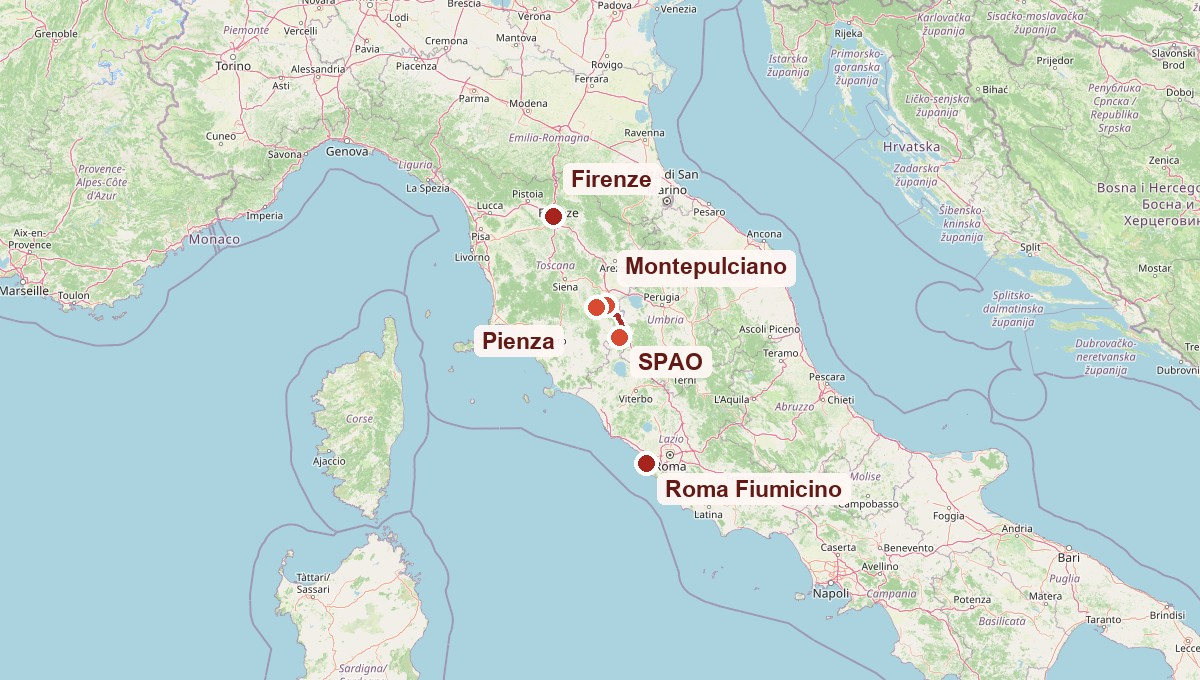
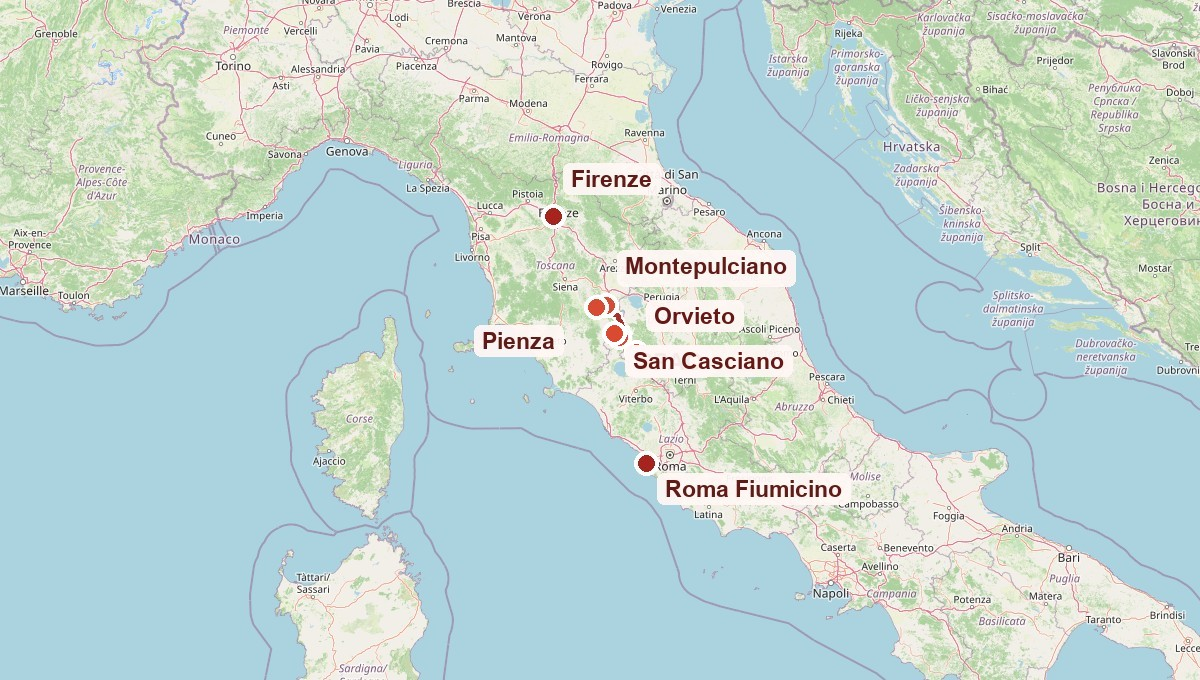
Add Orvieto and San Casciano tips

Changed region(s): [[0.4933, 0.4324, 0.6783, 0.5559]]

diff --git a/app/tips/page.tsx b/app/tips/page.tsx
@@ -39,6 +39,28 @@ export default function TipsPage() {
               <a className="text-link" href="https://www.pienzawelcome.it/en/" target="_blank" rel="noreferrer">Les mer</a>
             </div>
           </article>
+
+          <article className="explore-card cream">
+            <p className="kicker">Umbria</p>
+            <h2>Orvieto</h2>
+            <p className="explore-time">Ca. 35 km · omtrent 45 min fra SPAO</p>
+            <p>En skikkelig fin by å rusle rundt i, med små gater, hyggelige spisesteder og en ganske utrolig katedral midt i byen. Under Orvieto finnes det også et nettverk av gamle tunneler og rom som kan besøkes med guide.</p>
+            <div className="explore-actions">
+              <a className="outline-button" href="https://www.google.com/maps/dir/?api=1&origin=SPAO+Borgo+San+Pietro+Aquaeortus+Allerona&destination=Orvieto+Italy&travelmode=driving" target="_blank" rel="noreferrer">Åpne kjørerute</a>
+              <a className="text-link" href="https://www.umbriatourism.it/en/orvietano" target="_blank" rel="noreferrer">Les mer</a>
+            </div>
+          </article>
+
+          <article className="explore-card pink">
+            <p className="kicker">Toscana</p>
+            <h2>San Casciano dei Bagni</h2>
+            <p className="explore-time">Ca. 15 km · omtrent 25 min fra SPAO</p>
+            <p>En liten og rolig landsby som er kjent for de varme kildene sine. Her kan dere kombinere en tur gjennom byen med et bad i de gamle utendørsbassengene – ta med badetøy.</p>
+            <div className="explore-actions">
+              <a className="outline-button" href="https://www.google.com/maps/dir/?api=1&origin=SPAO+Borgo+San+Pietro+Aquaeortus+Allerona&destination=San+Casciano+dei+Bagni+Italy&travelmode=driving" target="_blank" rel="noreferrer">Åpne kjørerute</a>
+              <a className="text-link" href="https://www.visittuscany.com/en/towns-and-villages/san-casciano-dei-bagni/" target="_blank" rel="noreferrer">Les mer</a>
+            </div>
+          </article>
         </div>
         <p className="explore-note">Kjøretidene er omtrentlige. Beregn litt ekstra tid på de mindre veiene.</p>
       </section>
